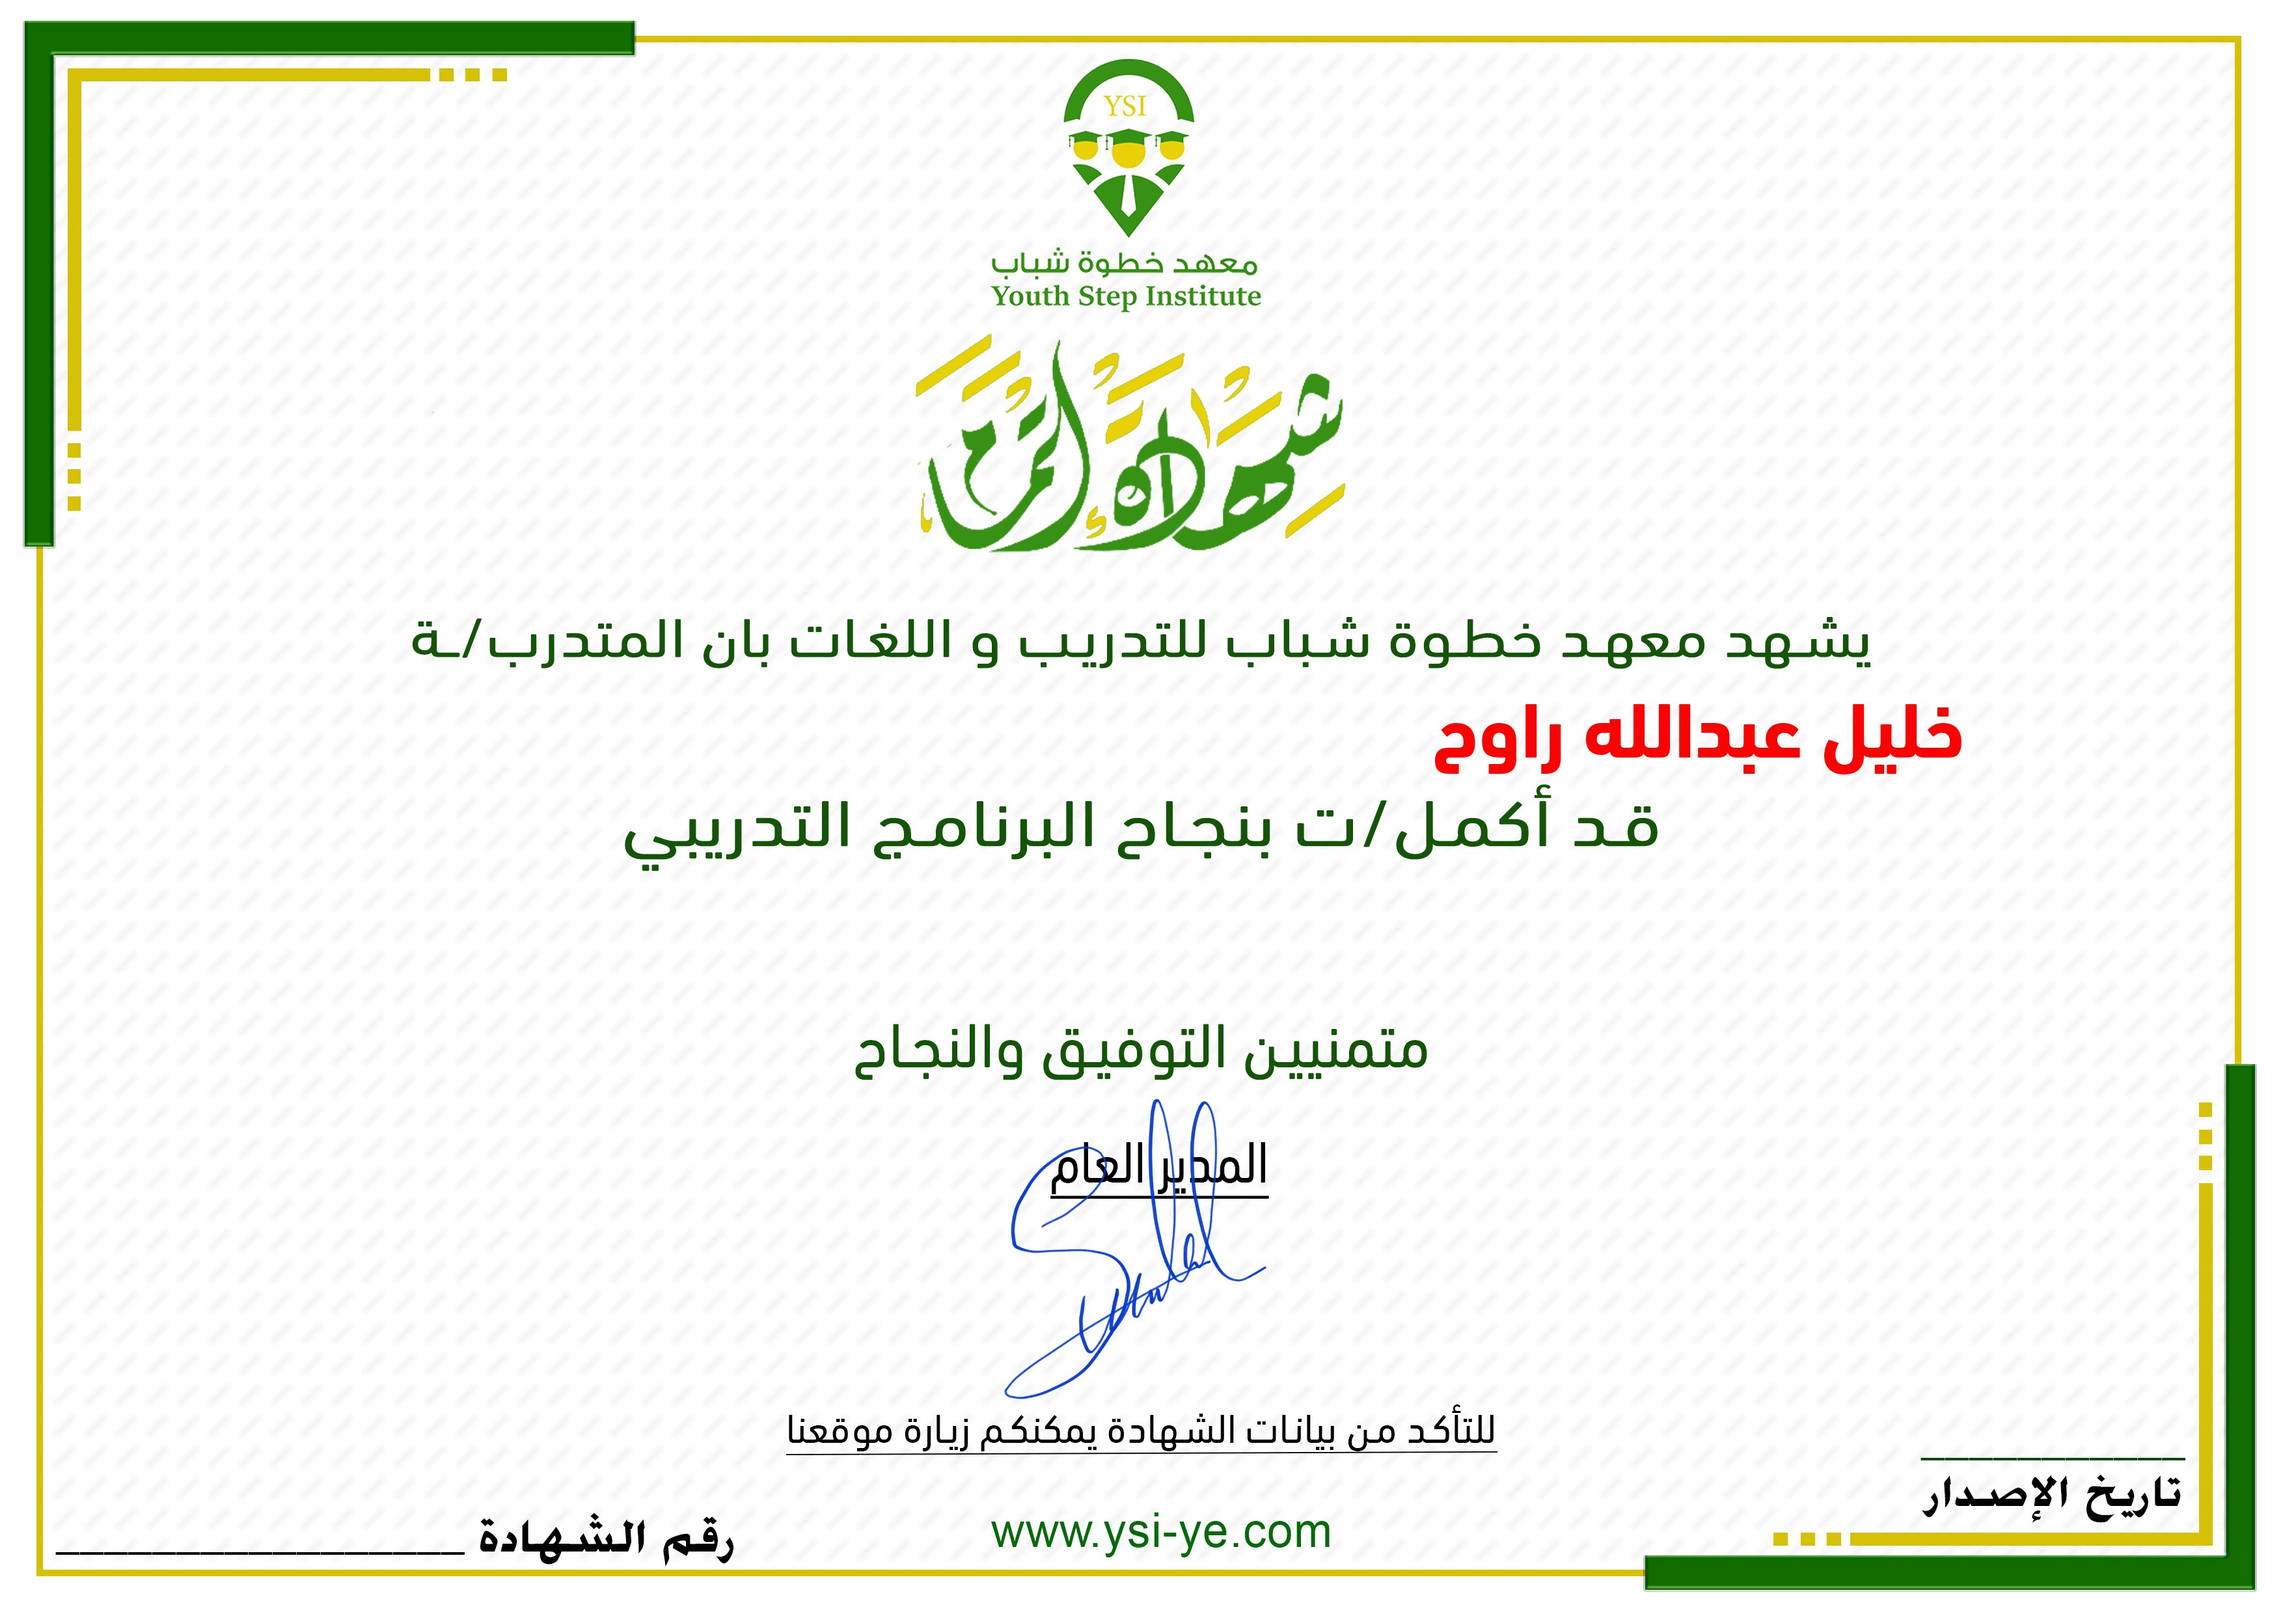
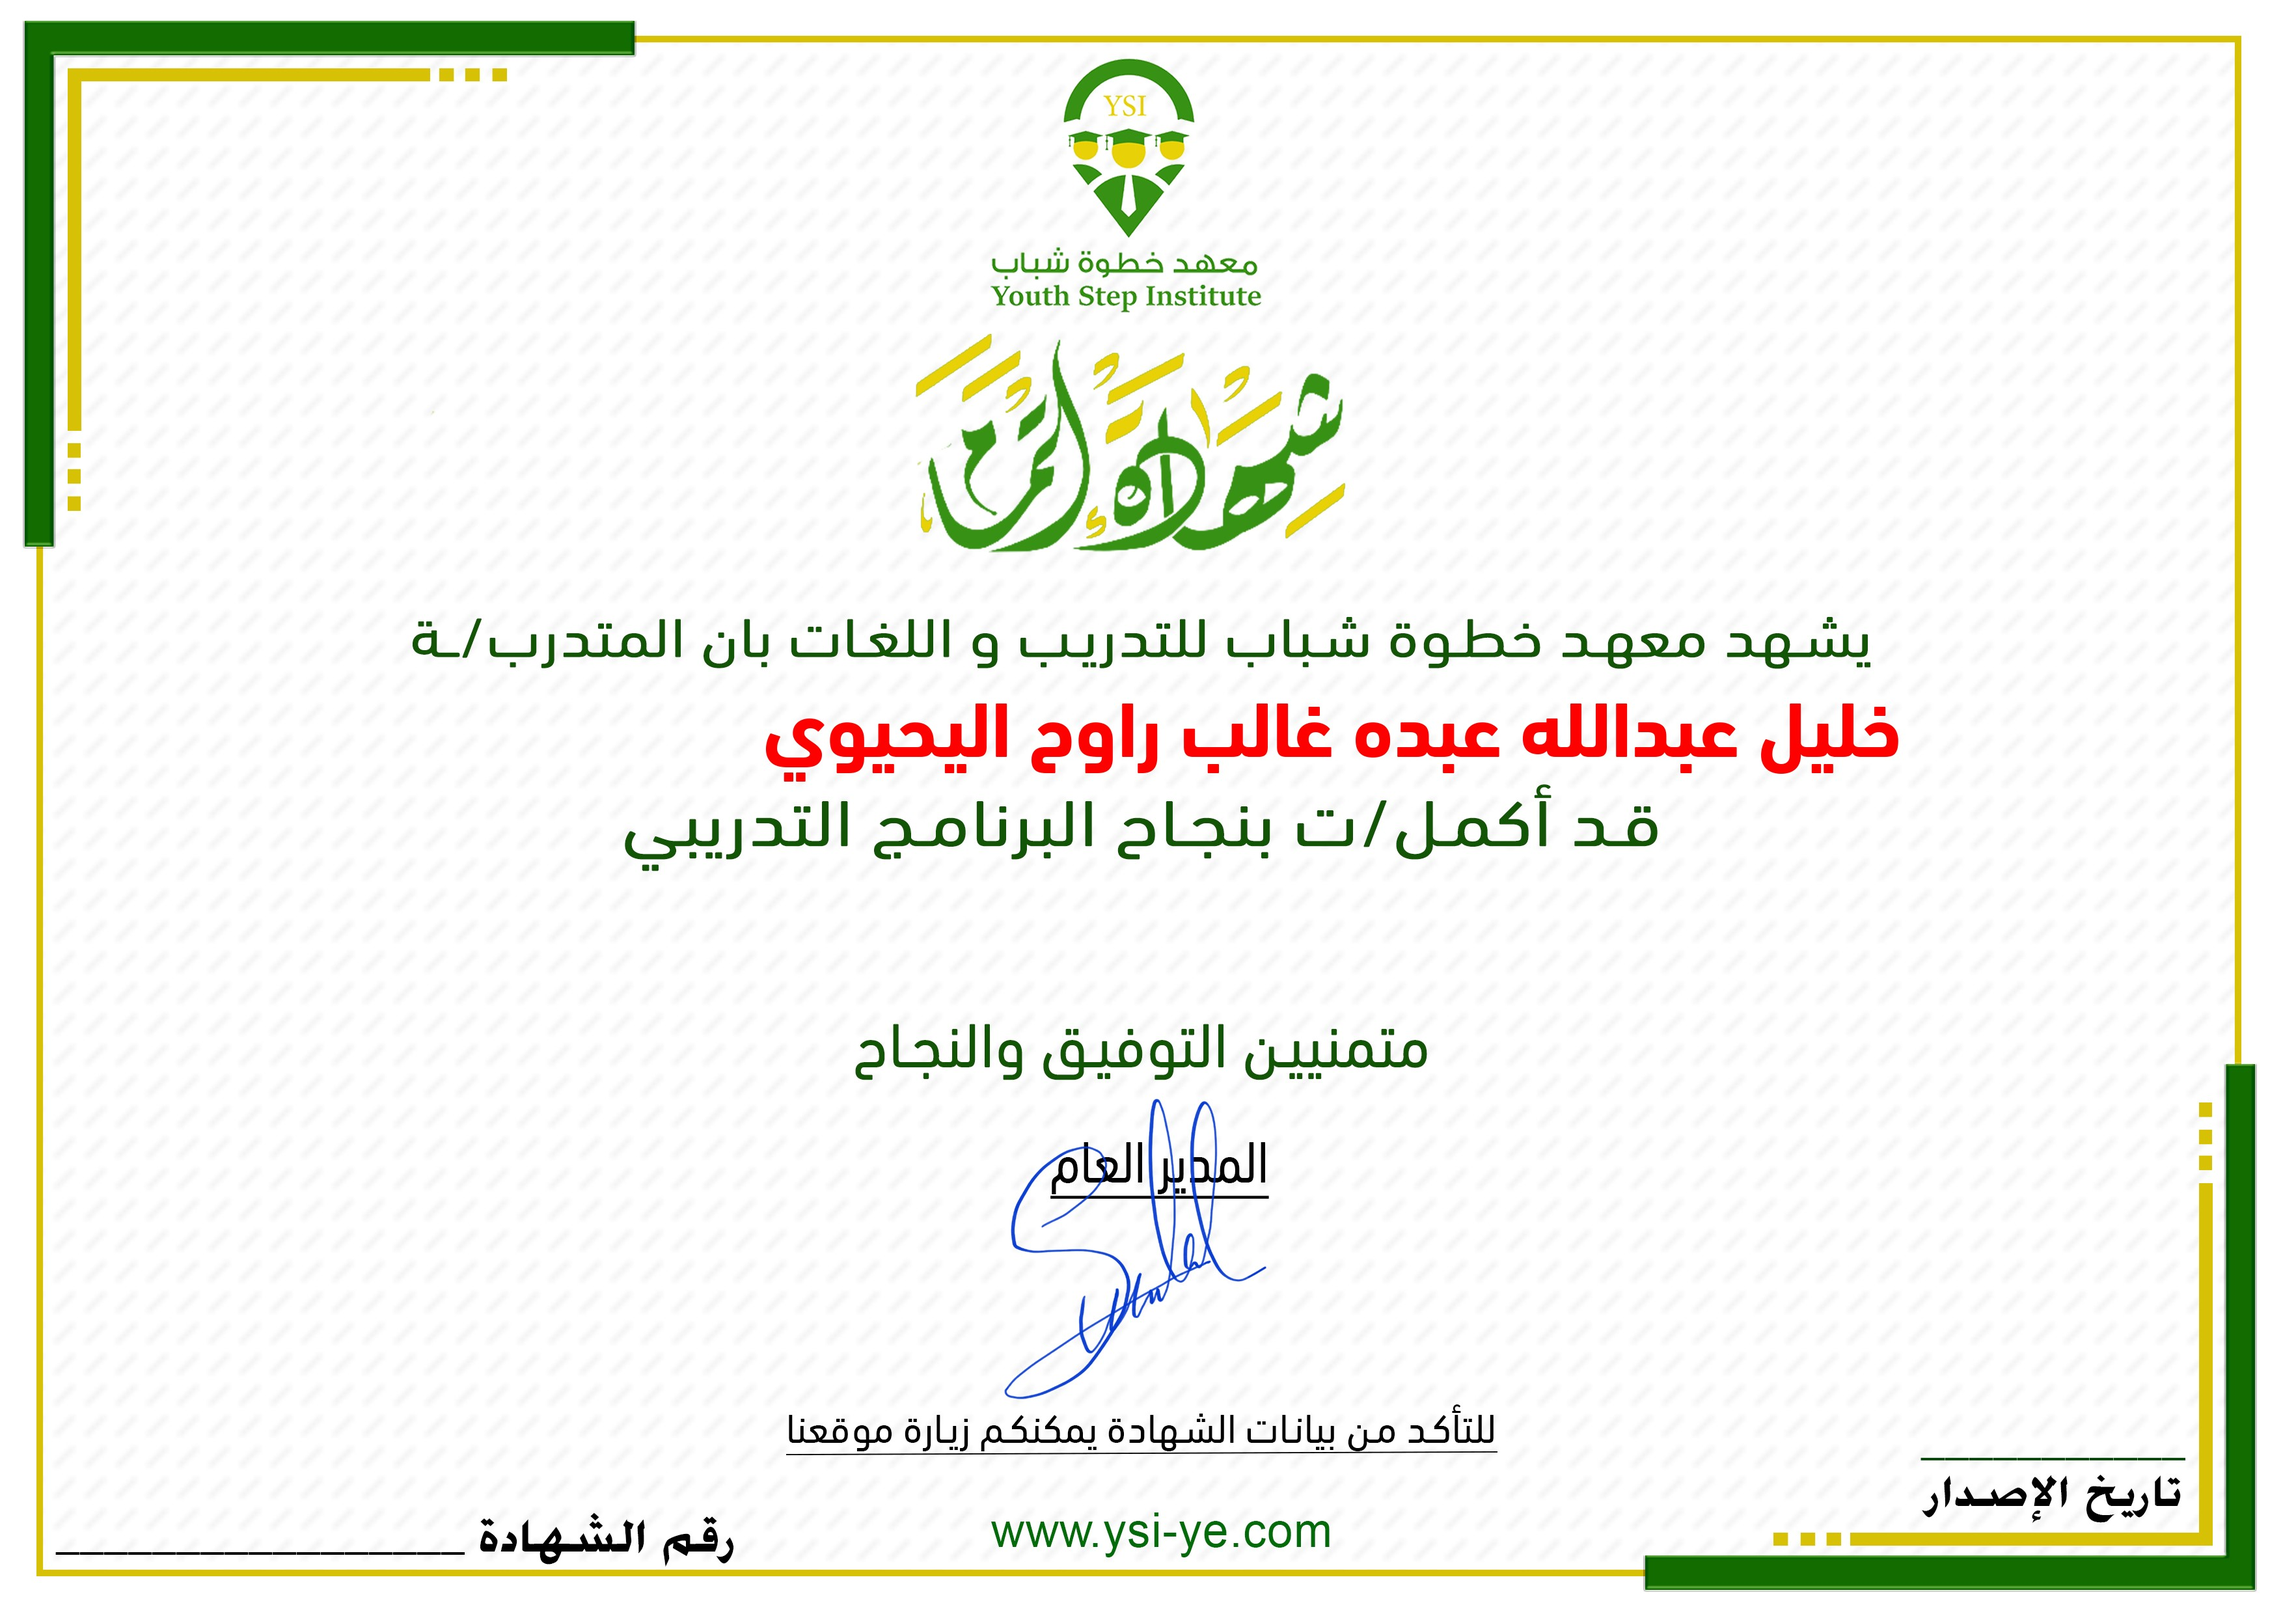
save all

Changed region(s): [[0.3418, 0.4347, 0.87, 0.4968]]

diff --git a/app/Http/Controllers/Frontend/CustomerController.php b/app/Http/Controllers/Frontend/CustomerController.php
@@ -129,53 +129,57 @@ class CustomerController extends Controller
 
     public function create_certification(Request $request)
     {
-
+        // Create the certification record
         $certification = Certifications::create([
             'full_name' => $request->full_name,
             'user_id'   => Auth::user()->id,
             'course_id' => $request->course_id,
-            'date_of_issue' =>  Carbon::now(),
-            'cert_code' =>  2024
+            'date_of_issue' => Carbon::now(),
+            'cert_code' => 2024,
         ]);
 
         $certification->cert_code = Carbon::now()->format('Y') . $certification->id;
         $certification->update();
 
-
+        // Prepare the text to be added to the image
         $arabic = new Arabic();
         $userName = $arabic->utf8Glyphs($request->full_name);
 
         $fontPath = public_path('fonts/DINNextLTArabic-Bold-2.ttf');
         $fontSize = 120;
 
-
+        // Load the image
         $cover = Image::make('assets/certifications/certificate.jpg');
 
+        // Get image dimensions
         $width = $cover->getWidth();
         $height = $cover->getHeight();
 
-        $textBoxWidth = strlen($userName) * ($fontSize / 2);
+        // Calculate the bounding box of the text
+        $textBox = imagettfbbox($fontSize, 0, $fontPath, $userName);
+        $textWidth = abs($textBox[2] - $textBox[0]);
+        $textHeight = abs($textBox[1] - $textBox[7]);
 
+        // Calculate the positions to center the text for Arabic
+        $x = ($width + $textWidth) / 2; // Centered based on right alignment
+        $y = ($height / 2) + ($fontSize / 2) - $textHeight; // Adjusted for font height
 
-        // $width - ($width / 2)
-        //$height - 1240
-
-        // Calculate X and Y positions to center the text
-        $x = $width - ($width - $textBoxWidth) / 2;
-        $y =   ($height / 2) - 50; // Adjust for font height
-
-
-        // $cover->text($userName, $width - 1700,  $height - 1240, function ($font) {
-        $cover->text($userName, $x,  $y, function ($font) use ($fontPath, $fontSize) {
+        // Add the text to the image
+        $cover->text($userName, $x, $y, function ($font) use ($fontPath, $fontSize) {
             $font->file($fontPath);
             $font->size($fontSize);
             $font->color('#ff0000');
-            $font->align('right');
-            $font->valign('bottom');
+            $font->align('right'); // Right-align the text
+            $font->valign('middle');
         });
+
+        // Save the image with the text
         $cover->save('assets/certifications/5.jpg');
+
+        // Return the image response
         return $cover->response();
     }
+
 
     public function lesson_certificate($id)
     {
